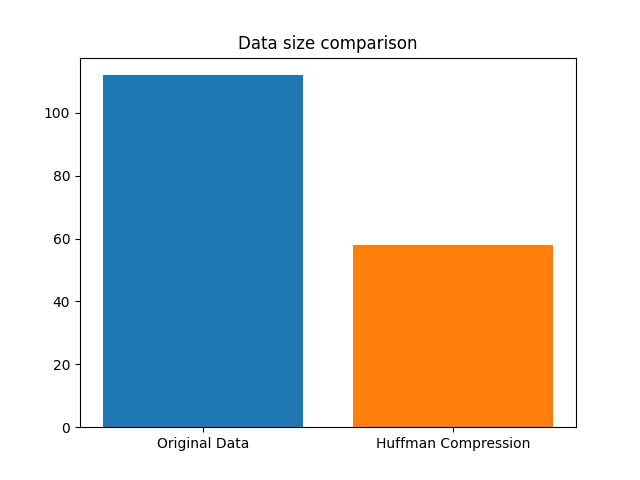
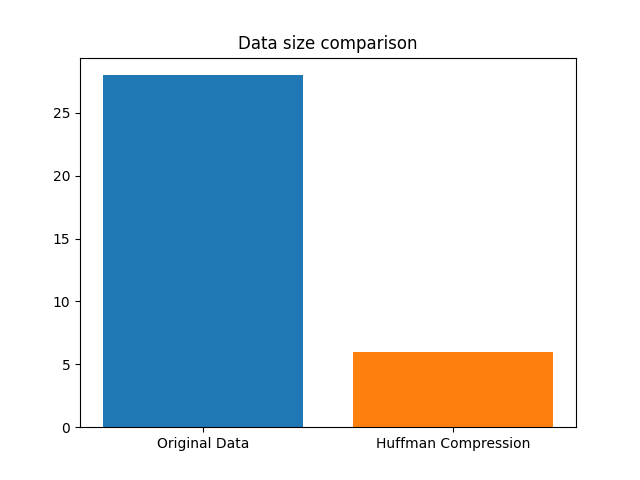
Added Decoding

diff --git a/Python/FuncAndClass.py b/Python/FuncAndClass.py
@@ -241,17 +241,23 @@ def binText(arr):
     return origData
 
 def hammingCoding(data):
-    # Calculate the no of Redundant Bits Required
-    m = len(data)
-    r = calcRedundantBits(m)
-    print("m = ", m)
-    print("r = ", r)
-    # Determine the positions of Redundant Bits
-    arr = posRedundantBits(data, r)
+    print("Data that came into the hamming code ", data)
+    slicedStr=[]
+    for i in range (4, len(data)+1, 4):
+        slicedStr.append(data[i-4:i])
+    encodedStr=[]
+    for j in range(0, len(slicedStr)):
+        # Calculate the no of Redundant Bits Required
+        m = len(slicedStr[j])
+        r = calcRedundantBits(m)
 
-    # Determine the parity bits
-    arr = calcParityBits(arr, r)
+        # Determine the positions of Redundant Bits
+        arr = posRedundantBits(slicedStr[j], r)
 
+        # Determine the parity bits
+        arr = calcParityBits(arr, r)
+        encodedStr.append(arr)
+    arr = ''.join(encodedStr)
     # Data to be transferred
     arr = np.array(list(arr), dtype=int)
     print("Data transferred is ", arr)
@@ -317,6 +323,54 @@ def calcParityBits(arr, r):
 		arr = arr[:n-(2**i)] + str(val) + arr[n-(2**i)+1:] 
 	return arr 
 
+
+def hammDec(recArr):
+    recArr =  ''.join(map(str, recArr))
+    slicedStr=[]
+    for i in range (7, len(recArr)+1, 7):
+        slicedStr.append(recArr[i-7:i])
+    decodedStr=[]
+    for j in range(0, len(slicedStr)):
+        arr = slicedStr[j]
+        arr = np.array(list(arr), dtype=int)
+        error = [False, False, False]
+        for k in range (0,7):
+            if k == 0:
+                # parity bit 1 checks for all errors in positions 1,3,5,6 
+                if ((arr[0] + arr[2] + arr[4] + arr[6])%2==0 and arr[0]==0) or ((arr[0] + arr[2] + arr[4] + arr[6])%2==1 and arr[0]==1): error[0]=False 
+                else: error[0]=True             
+            elif k == 1:
+                # parity bit 1 checks for all errors in positions 1,3,5,6
+                if ((arr[0] + arr[2] + arr[4] + arr[6])%2==0 and arr[0]==0) or ((arr[0] + arr[2] + arr[4] + arr[6])%2==1 and arr[0]==1): error[0]=False  
+                else: error[0]=True   
+            elif k == 4:
+                # parity bit 1 checks for all errors in positions 1,3,5,6 
+                if ((arr[0] + arr[2] + arr[4] + arr[6])%2==0 and arr[0]==0) or ((arr[0] + arr[2] + arr[4] + arr[6])%2==1 and arr[0]==1): error[0]=False 
+                else: error[0]=True   
+            else:return    
+        if all(error) == False:
+            # if this is true then no errors detected and just remove parity bits
+            arr = arr.tolist()
+            arr = arr.pop(4)
+            arr = arr.pop(1)
+            arr = arr.pop(0)
+            decodedStr.append(arr)
+            return 
+        else:
+            posError = detectError(arr, 3)
+            if arr[posError] == 0: arr[posError] = 1
+            elif arr[posError] == 1: arr[posError] = 0
+            arr = arr.pop(4)
+            arr = arr.pop(1)
+            arr = arr.pop(0)
+            decodedStr.append(arr)
+            return
+    print("Sliced Decoded data is", decodedStr)
+    arr = ''.join(map(str, decodedStr))
+    print("")
+    print("The decoded Data is", arr)
+    return arr
+
 def detectError(arr, nr): 
     n = len(arr) 
     res = 0
@@ -374,7 +428,6 @@ def stringIt(arr):
 def monteTransmit(EbNo, transArr, sourceData, root=0 , code=0):
     BERarr = [None] * EbNo.size
     M = 64
-    r = 0
     answer = ""
     for i in range(0, EbNo.size):
         SNR = EbNo[i]
@@ -405,13 +458,12 @@ def monteTransmit(EbNo, transArr, sourceData, root=0 , code=0):
         
         if code == 1:
             answer = 'Hamming Encoded'
-            r = calcRedundantBits(len(transArr))
             modArr = mod.modulate(transArr)
-            rateHamming = 1 - (r/(2^r - 1))
-            # rateHamming = 1/2
+            rateHamming = 4/7
             recieveArr = awgn(modArr, SNR, rate=rateHamming)
             demodArr = mod.demodulate(recieveArr, 'hard')
             
+            '''
             r =  calcRedundantBits(len(demodArr))    
             posError = 0
             posError = detectError(stringIt(demodArr), r)
@@ -419,12 +471,12 @@ def monteTransmit(EbNo, transArr, sourceData, root=0 , code=0):
             print("The position of error is " + str(posError))
             print("The size of our data is this " + str(demodArr.size))
             print(str(i) + " out of " + str(EbNo.size))
-            decodedData = correctIt(posError, r, demodArr)
-            print("")
-        
+            '''
+
+            decodedData = hammDec(demodArr)        
             numErrs += np.sum(decodedData != sourceData)
             print("No of errors", numErrs)
-            BERarr[i] = numErrs/decodedData.size
+            BERarr[i] = numErrs/len(decodedData)
             '''
             f = open("string/hammingCodes.txt", 'w')
             f.write('Corrected Data = ' + str(demodArr))
@@ -464,7 +516,7 @@ def monteTransmit(EbNo, transArr, sourceData, root=0 , code=0):
             recieveArr = awgn(modArr, SNR, rate=1)
             demodArr = mod.demodulate(recieveArr, 'hard')
             answer = 'Original Data'
-            numErrs += np.sum(sourceData != demodArr)
+            numErrs += np.sum(transArr != demodArr)
             BERarr[i] = numErrs/demodArr.size
     plt.semilogy(EbNo, BERarr, label=answer)
     print("The number of errors in our code is ", numErrs)

diff --git a/Python/JointCode.py b/Python/JointCode.py
@@ -14,7 +14,7 @@ for z in range(3):
     # huffman code
 
     
-    sizeOfData = 16 # np.random.randint(4, 64)
+    sizeOfData = 4 # np.random.randint(4, 64)
     symbols = list(string.ascii_uppercase)
     arr = np.random.choice(symbols, sizeOfData) # The code
     
